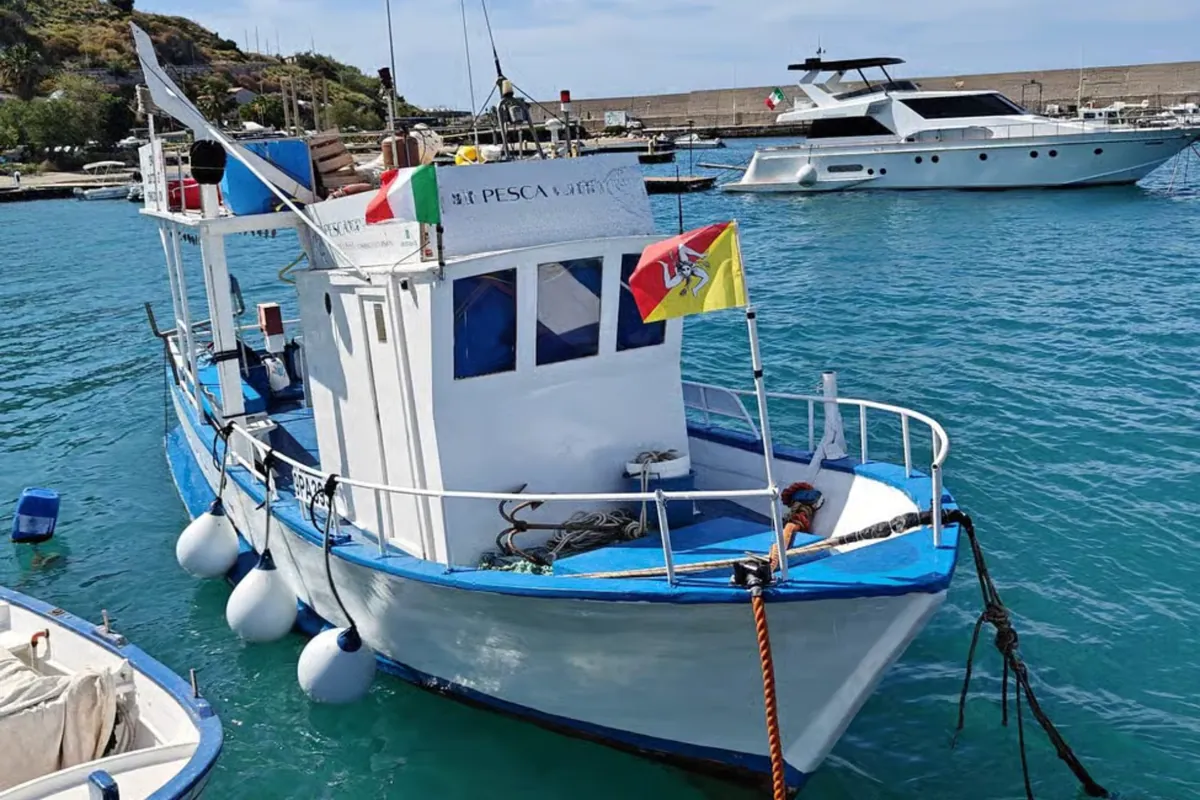
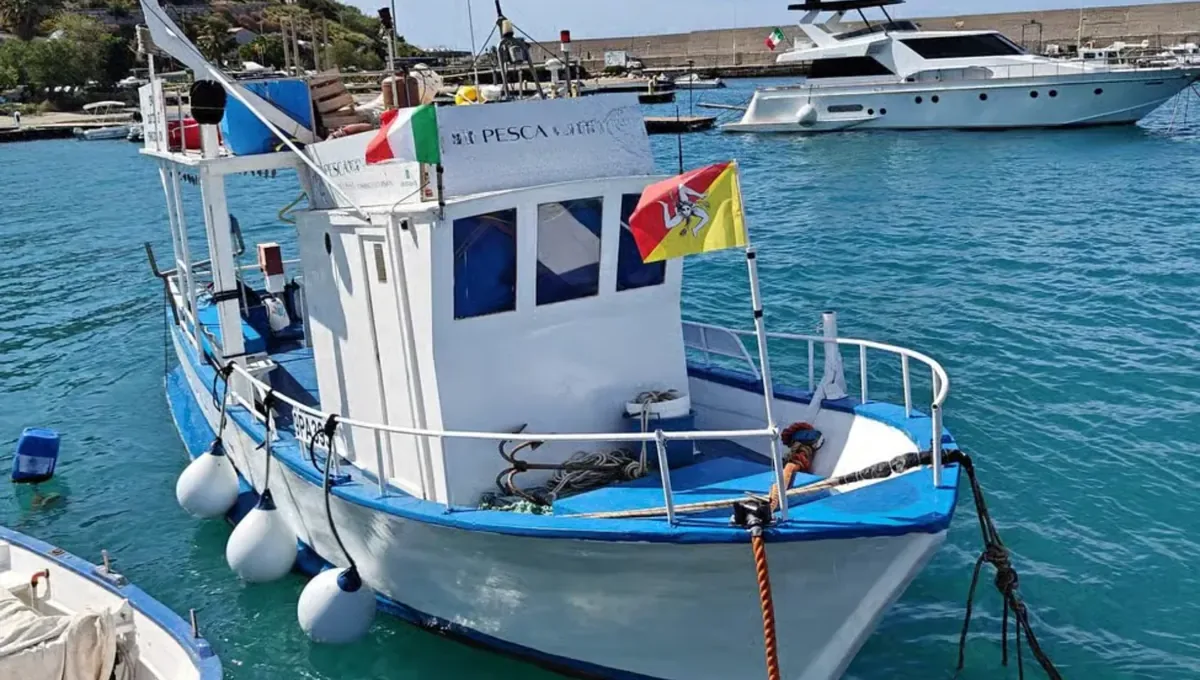
Noticia del pez sable e imágenes de noticias libres y uniformes
- Nueva noticia: controles en frontera, lote de pez sable destruido por anisakis
  (fuentes: AS y La Razón).
- Sustituidas las imágenes copiadas de las fuentes y las desagradables por
  fotografías libres (dominio público o CC0) de Wikimedia Commons.
- Todas las imágenes de noticias a 1200 × 680; las demás, recortadas sin
  cambiar la foto.
- IMAGENES.md: origen y licencia de cada imagen nueva.

diff --git a/IMAGENES.md b/IMAGENES.md
@@ -1,0 +1,18 @@
+# Origen de las imágenes de las noticias
+
+Regla: solo imágenes propias o con licencia libre comprobada (dominio público o CC0; si es CC BY, poner el crédito en la noticia), nunca fotos de prensa ni imágenes desagradables, y todas de 1200 × 680 en WebP.
+
+| Imagen (`static/img/noticias/`) | Origen | Licencia |
+|---|---|---|
+| `controles-en-frontera-destruido-un-lote-de-pez-sable.webp` | Wikimedia Commons, «Aerial photograph of the Port of Miami Container Port.jpg» (recortada a 1200 × 680) | Dominio público |
+| `primer-caso-confirmado-de-anisakiasis-en-grecia-tras-una-cena-de-sushi.webp` | Wikimedia Commons, «Sushi Plate in Organic Sushi Prague 4 A.jpg» (https://commons.wikimedia.org/wiki/File:Sushi_Plate_in_Organic_Sushi_Prague_4_A.jpg), recortada a 1200 × 680 | CC0 (dominio público) |
+| `mas-alla-del-96-analisis-cientifico-del-estudio-sobre-parasitos-en-el.webp` | Wikimedia Commons, «Tuna auction at Tsukiji Fish Market, Tokyo; 2014.jpg» (https://commons.wikimedia.org/wiki/File:Tuna_auction_at_Tsukiji_Fish_Market,_Tokyo;_2014.jpg), recortada a 1200 × 680 | CC0 (dominio público) |
+| `control-del-anisakis-el-papel-de-los-veterinarios-desde-la-lonja-hasta.webp` | Wikimedia Commons, «Wholesale fish market at Haikou New Port - 02.jpg» (https://commons.wikimedia.org/wiki/File:Wholesale_fish_market_at_Haikou_New_Port_-_02.jpg), recortada a 1200 × 680 | CC0 (dominio público) |
+| `descodifican-el-genoma-del-anisakis-la-ciencia-avanza-hacia-un-control.webp` | Wikimedia Commons, «NHGRI researcher uses a pipette to remove DNA from a micro test tube.jpg» (https://commons.wikimedia.org/wiki/File:NHGRI_researcher_uses_a_pipette_to_remove_DNA_from_a_micro_test_tube.jpg), recortada a 1200 × 680 | Dominio público |
+| `anisakis-como-causante-de-alergia-a-la-carne.webp` | Wikimedia Commons, «Beef steak slices on a platter with sauce.JPG» (https://commons.wikimedia.org/wiki/File:Beef_steak_slices_on_a_platter_with_sauce.JPG), recortada a 1200 × 680 | CC0 (dominio público) |
+| `alergia-al-anisakis-una-reaccion-que-puede-llegar-a-ser-grave.webp` | Wikimedia Commons, «Fight back during allergy awareness month 160512-F-AR942-009.jpg» (https://commons.wikimedia.org/wiki/File:Fight_back_during_allergy_awareness_month_160512-F-AR942-009.jpg), recortada a 1200 × 680 | Dominio público |
+| `inactivacion-termica-del-anisakis-lo-que-revela-el-proyecto-heatsakis.webp` | Wikimedia Commons, «Grilled fish at restaurant in Tokyo.jpg» (https://commons.wikimedia.org/wiki/File:Grilled_fish_at_restaurant_in_Tokyo.jpg), recortada a 1200 × 680 | CC0 (dominio público) |
+| `el-anisakis-esta-presente-en-el-100-de-las-merluzas-europeas-y-en-una.webp` | Wikimedia Commons, «Hernani - merluza en salsa verde.jpg» (https://commons.wikimedia.org/wiki/File:Hernani_-_merluza_en_salsa_verde.jpg), recortada a 1200 × 680 | CC0 (dominio público) |
+| `el-gobierno-vasco-lanza-la-campana-frescossi-anisakisno-para-impulsar.webp` | Wikimedia Commons, «Vitoria - Mercado de la Plaza (diciembre 2023) 05.jpg» (https://commons.wikimedia.org/wiki/File:Vitoria_-_Mercado_de_la_Plaza_(diciembre_2023)_05.jpg), recortada a 1200 × 680 | CC0 (dominio público) |
+
+El 23/11/2026 se sustituyeron 5 fotos copiadas de las noticias de prensa 3 imágenes desagradables (sarpullido y larvas) y 2 que no eran fotos reales (dibujo de alergia y cartel de campaña). El resto vienen de la web antigua, recortadas a 1200 × 680 sin cambiar la foto; su origen está en revisión (tarea P86).

diff --git a/content/noticias/2026-11-23-controles-en-frontera-destruido-un-lote-de-pez-sable.md b/content/noticias/2026-11-23-controles-en-frontera-destruido-un-lote-de-pez-sable.md
@@ -1,0 +1,23 @@
+---
+title: "Controles en frontera: destruido un lote de pez sable importado por presencia de anisakis"
+date: 2026-11-23
+image: "/img/noticias/controles-en-frontera-destruido-un-lote-de-pez-sable.webp"
+summary: "Un lote de pez sable procedente de Marruecos fue destruido el 13 de octubre tras encontrarse anisakis en la inspección en frontera. Fue una de las tres incidencias con productos pesqueros de ese origen que España notificó a las autoridades europeas en nueve días."
+---
+Los alimentos que llegan a España desde fuera de sus fronteras están sometidos a controles sanitarios. Según han informado los diarios *AS* y *La Razón*, en una de esas inspecciones se encontró *Anisakis* en un lote de **pez sable** procedente de Marruecos y destinado a la venta para consumo, que acabó **destruido el 13 de octubre**.
+
+**TRES INCIDENCIAS EN NUEVE DÍAS**
+
+El del pez sable no fue el único caso. En nueve días, las autoridades españolas notificaron a las autoridades europeas tres incidencias con productos pesqueros del mismo origen:
+
+- **13 de octubre:** lote de pez sable con presencia de anisakis, destruido.
+- **15 de octubre:** harina de pescado destinada a alimentación animal en la que se detectó *Salmonella* en las cinco submuestras analizadas.
+- **21 de octubre:** notificación de un lote de surimi con ruptura de la cadena de frío durante el transporte, que fue rechazado en la frontera y posteriormente destruido.
+
+**POR QUÉ IMPORTAN ESTOS CONTROLES**
+
+Este parásito puede causar en las personas problemas digestivos y alergias, por lo que, cuando aparece en un producto pensado para el consumo, hay que impedir que llegue a la venta. En el surimi, el riesgo era otro: si se rompe la cadena de frío durante el transporte o el almacenamiento, los microorganismos pueden multiplicarse.
+
+Los tres casos de octubre, recogidos por ambos medios, ilustran el papel de estas inspecciones: frenar en la frontera los productos con problemas sanitarios antes de que entren en la cadena comercial.
+
+Fuentes: [**AS**](https://as.com/actualidad/sociedad/espana-frena-en-la-frontera-tres-partidas-de-productos-pesqueros-de-marruecos-en-nueve-dias-anisakis-salmonela-y-problemas-de-conservacion-f202610-n/), [**La Razón**](https://www.larazon.es/salud/alerta-sanitaria-lote-surimi-procedente-marruecos-espana-rechaza-ordena-destruirlo_202610286ae22e82a5f83c2fb8e6c338.html)
